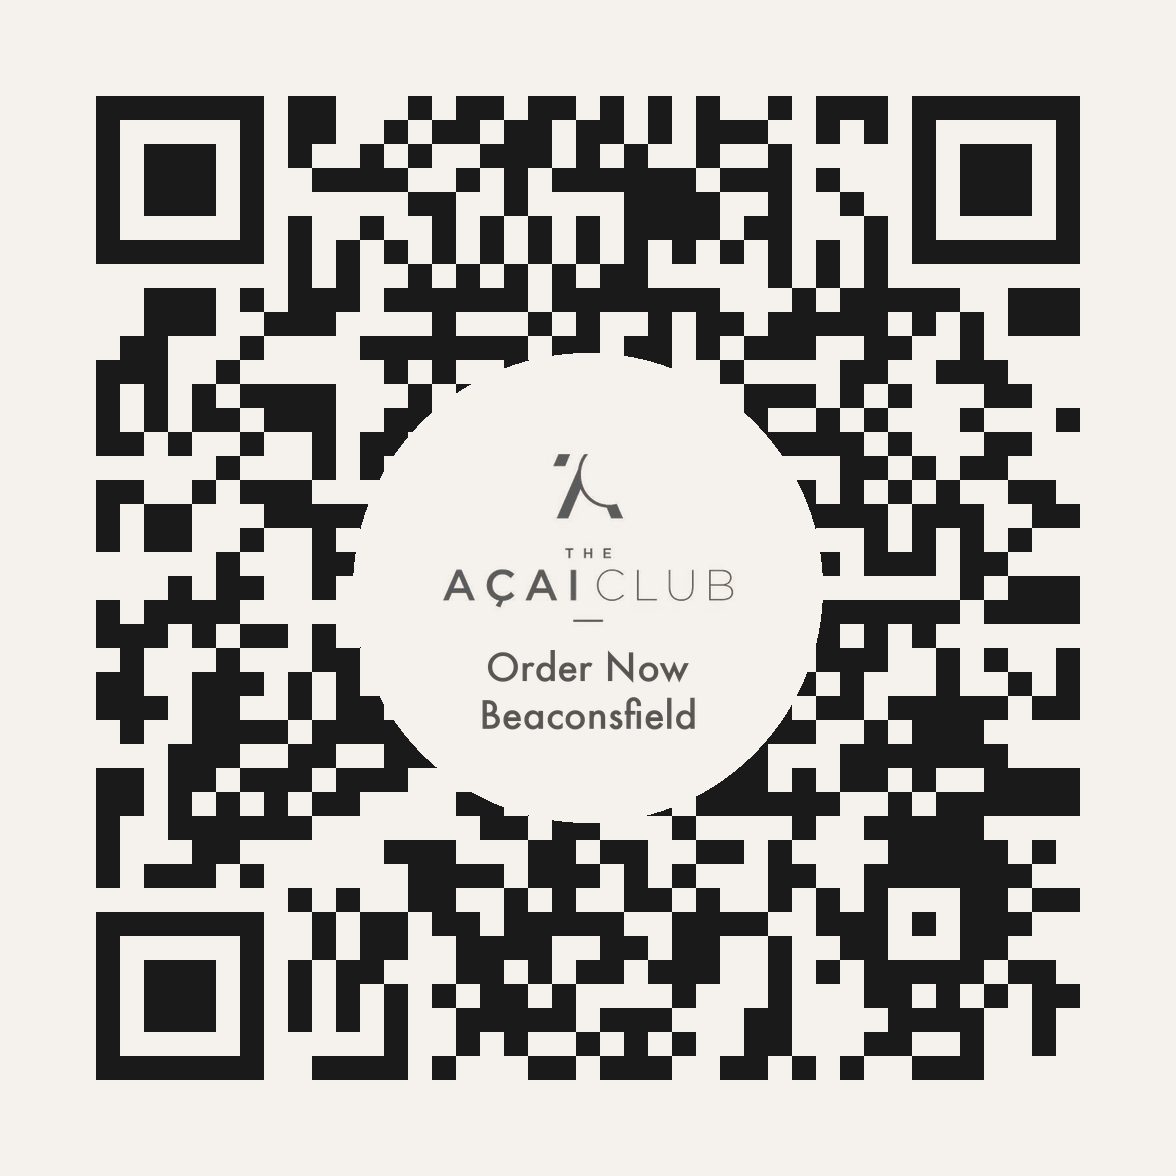
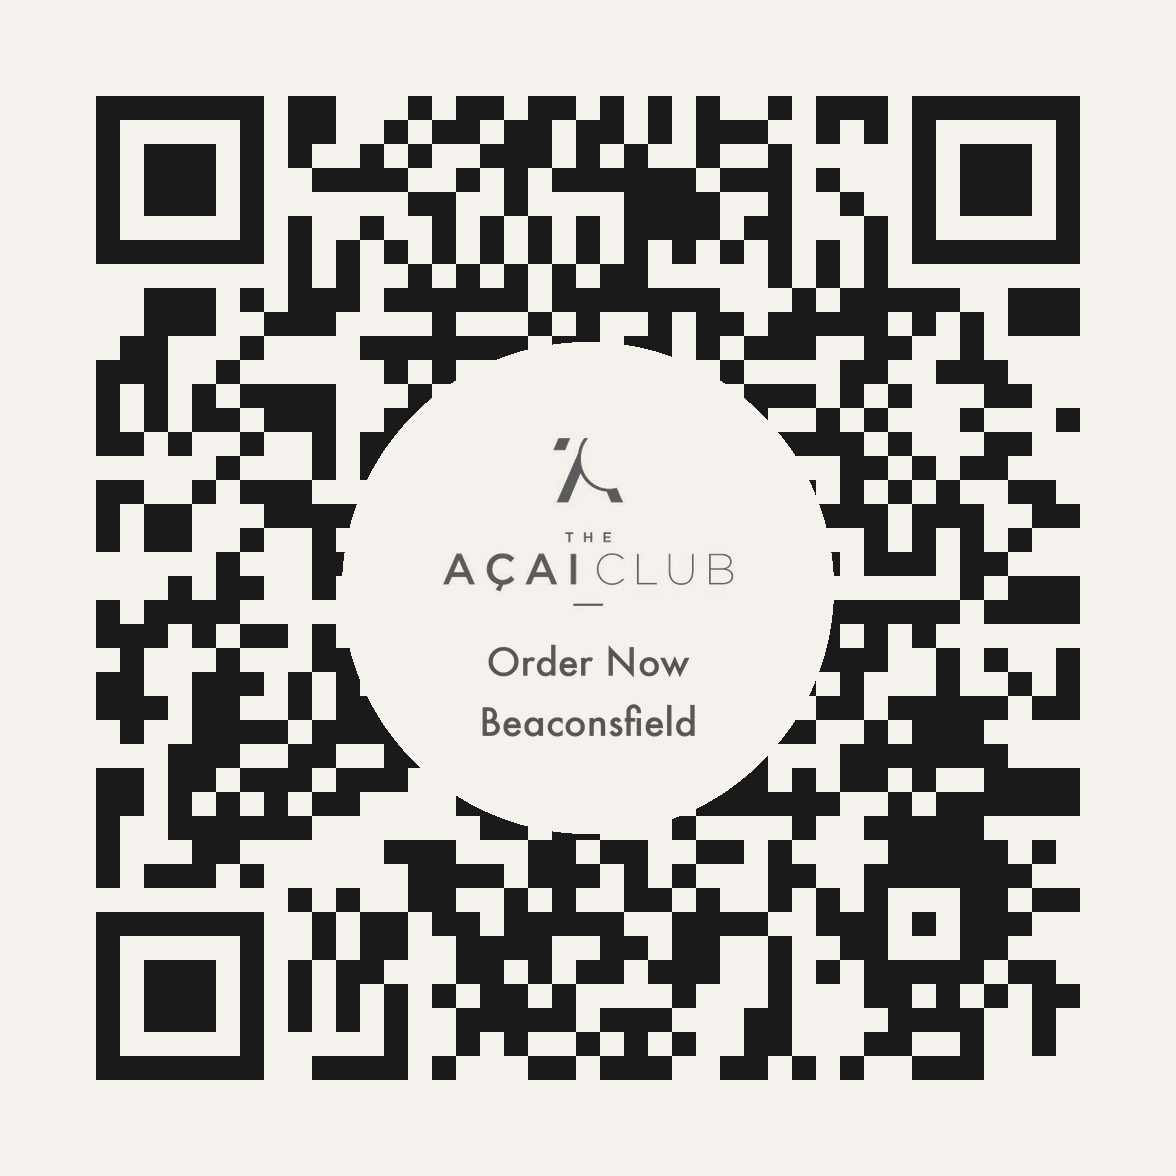
QR: fix clipped descenders (g/p/y) via font-metric bottom padding; auto-bump version so all codes stay scannable

diff --git a/qr/make-qr.py b/qr/make-qr.py
@@ -59,33 +59,31 @@ def label_block(lines, color, icon_fn=instagram_glyph):
     fsize = 64
     f = ImageFont.truetype(FUT, fsize, index=0)
     tmp = ImageDraw.Draw(Image.new("RGBA", (10, 10)))
-    def tsize(t):
-        b = tmp.textbbox((0, 0), t, font=f); return b[2]-b[0], b[3]-b[1], b
-    th = tsize("RUN CLUB")[1]
-    icon = (th + int(th * 0.22)) if icon_fn else 0
-    gap = int(th * 0.42) if icon_fn else 0    # icon -> text gap
-    lgap = int(th * 0.45)                       # line spacing
+    _, descent = f.getmetrics()                 # max descender depth below baseline (g, p, y)
+    cap_h = tmp.textbbox((0, 0), "RUN CLUB", font=f)[3]   # caps height
+    def tw(t):
+        return tmp.textlength(t, font=f)
+    icon = (cap_h + int(cap_h * 0.22)) if icon_fn else 0
+    gap = int(cap_h * 0.42) if icon_fn else 0   # icon -> text gap
+    lgap = int(cap_h * 0.45)                     # spacing between lines (matches the liked layout)
 
-    widths = []
-    for i, ln in enumerate(lines):
-        w = tsize(ln)[0] + (icon + gap if i == 0 else 0)
-        widths.append(w)
-    block_w = max(widths)
-    line_h = max(icon, th)
-    block_h = line_h * len(lines) + lgap * (len(lines) - 1)
+    row_h = max(icon, cap_h)
+    block_w = int(max(tw(ln) + (icon + gap if i == 0 else 0) for i, ln in enumerate(lines)))
+    # +descent of bottom padding so the final line's descenders (g, p, y) aren't clipped
+    block_h = row_h * len(lines) + lgap * (len(lines) - 1) + descent
 
     img = Image.new("RGBA", (block_w, block_h), (0, 0, 0, 0))
     d = ImageDraw.Draw(img)
     y = 0
     for i, ln in enumerate(lines):
-        tw, _, b = tsize(ln)
-        row_w = tw + (icon + gap if i == 0 else 0)
+        row_w = int(tw(ln)) + (icon + gap if i == 0 else 0)
         x = (block_w - row_w) // 2
         if i == 0 and icon_fn:
-            img.alpha_composite(icon_fn(icon, color), (x, y + (line_h - icon) // 2))
+            img.alpha_composite(icon_fn(icon, color), (x, y + (row_h - icon) // 2))
             x += icon + gap
-        d.text((x, y + (line_h - th) // 2 - b[1]), ln, font=f, fill=color)
-        y += line_h + lgap
+        baseline = y + (row_h - cap_h) // 2 + cap_h        # caps fill the row
+        d.text((x, baseline), ln, font=f, fill=color, anchor="ls")
+        y += row_h + lgap
     return img
 
 def lockup_rgba():
@@ -108,39 +106,34 @@ def logo_ink(crop_rgba):
     n = len(darks)
     return (sum(c[0] for c in darks)//n, sum(c[1] for c in darks)//n, sum(c[2] for c in darks)//n)
 
-def make_circle(url, out_path, lines=None, icon="instagram"):
+def _compose(url, version, lines, icon):
+    """Render one circular QR at a specific version. Returns the RGB image."""
     import math
     lk0 = lockup_rgba(); lw, lh = lk0.size
-    qr = qrcode.QRCode(error_correction=ERROR_CORRECT_H, box_size=24, border=4)
-    qr.add_data(url); qr.make(fit=True)
+    qr = qrcode.QRCode(version=version, error_correction=ERROR_CORRECT_H, box_size=24, border=4)
+    qr.add_data(url); qr.make(fit=(version is None))
     img = qr.make_image(fill_color=FG, back_color="#f5f1ec").convert("RGBA")
     W, H = img.size
 
-    # logo at its fixed size (never changes)
     lk = lk0.resize((int(W * 0.26), int(lh * (W * 0.26 / lw))), Image.LANCZOS)
     lkw, lkh = lk.size
     ink = logo_ink(lk0)
 
-    # build the label block (if any), scaled so it never exceeds the logo width
-    block = None
+    block = bw = bh = gap = None
     if lines:
         icon_fn = {"mobile": mobile_glyph, "none": None}.get(icon, instagram_glyph)
         block = label_block(lines, ink, icon_fn)
-        max_w = int(lkw * 0.92)
-        # extra shrink for multi-line so the centre plate stays small enough to scan
-        max_w = int(max_w * (0.78 if len(lines) > 1 else 1.0))
+        max_w = int(lkw * 0.92 * (0.78 if len(lines) > 1 else 1.0))
         if block.size[0] > max_w:
             sc = max_w / block.size[0]
             block = block.resize((int(block.size[0] * sc), int(block.size[1] * sc)), Image.LANCZOS)
         bw, bh = block.size
         gap = int(lkh * 0.12)
 
-    # logo + label centred as a group -> compact circle that still scans
-    content_w = max(lkw, bw if block else 0)
-    content_h = lkh + (gap + bh if block else 0)
+    content_w = max(lkw, bw or 0)
+    content_h = lkh + ((gap + bh) if block else 0)
     margin = int(lkw * 0.09)
-    r = math.hypot(content_w, content_h) / 2 + margin
-    side = int(2 * r)
+    side = int(2 * (math.hypot(content_w, content_h) / 2 + margin))
 
     plate = Image.new("RGBA", (side, side), (0, 0, 0, 0))
     mask = Image.new("L", (side, side), 0)
@@ -154,8 +147,26 @@ def make_circle(url, out_path, lines=None, icon="instagram"):
     img.alpha_composite(lk, (cx - lkw // 2, top))
     if block:
         img.alpha_composite(block, (cx - bw // 2, top + lkh + gap))
+    return img.convert("RGB")
 
-    img.convert("RGB").save(out_path)
+def make_circle(url, out_path, lines=None, icon="instagram"):
+    """Render a circular QR, auto-bumping the QR version until the finished image
+    (centre plate and all) actually decodes — so it's robust regardless of URL
+    length or label size."""
+    natural = _compose(url, None, lines, icon)
+    natural.save(out_path)
+    if verify(out_path, url).startswith("OK"):
+        return out_path
+    # natural version too sparse for the centre plate -> densify until it scans
+    for v in range(2, 21):
+        try:
+            img = _compose(url, v, lines, icon)
+        except qrcode.exceptions.DataOverflowError:
+            continue
+        img.save(out_path)
+        if verify(out_path, url).startswith("OK"):
+            return out_path
+    natural.save(out_path)   # fallback: nothing scanned cleanly, keep the natural one
     return out_path
 
 def verify(out, url):
